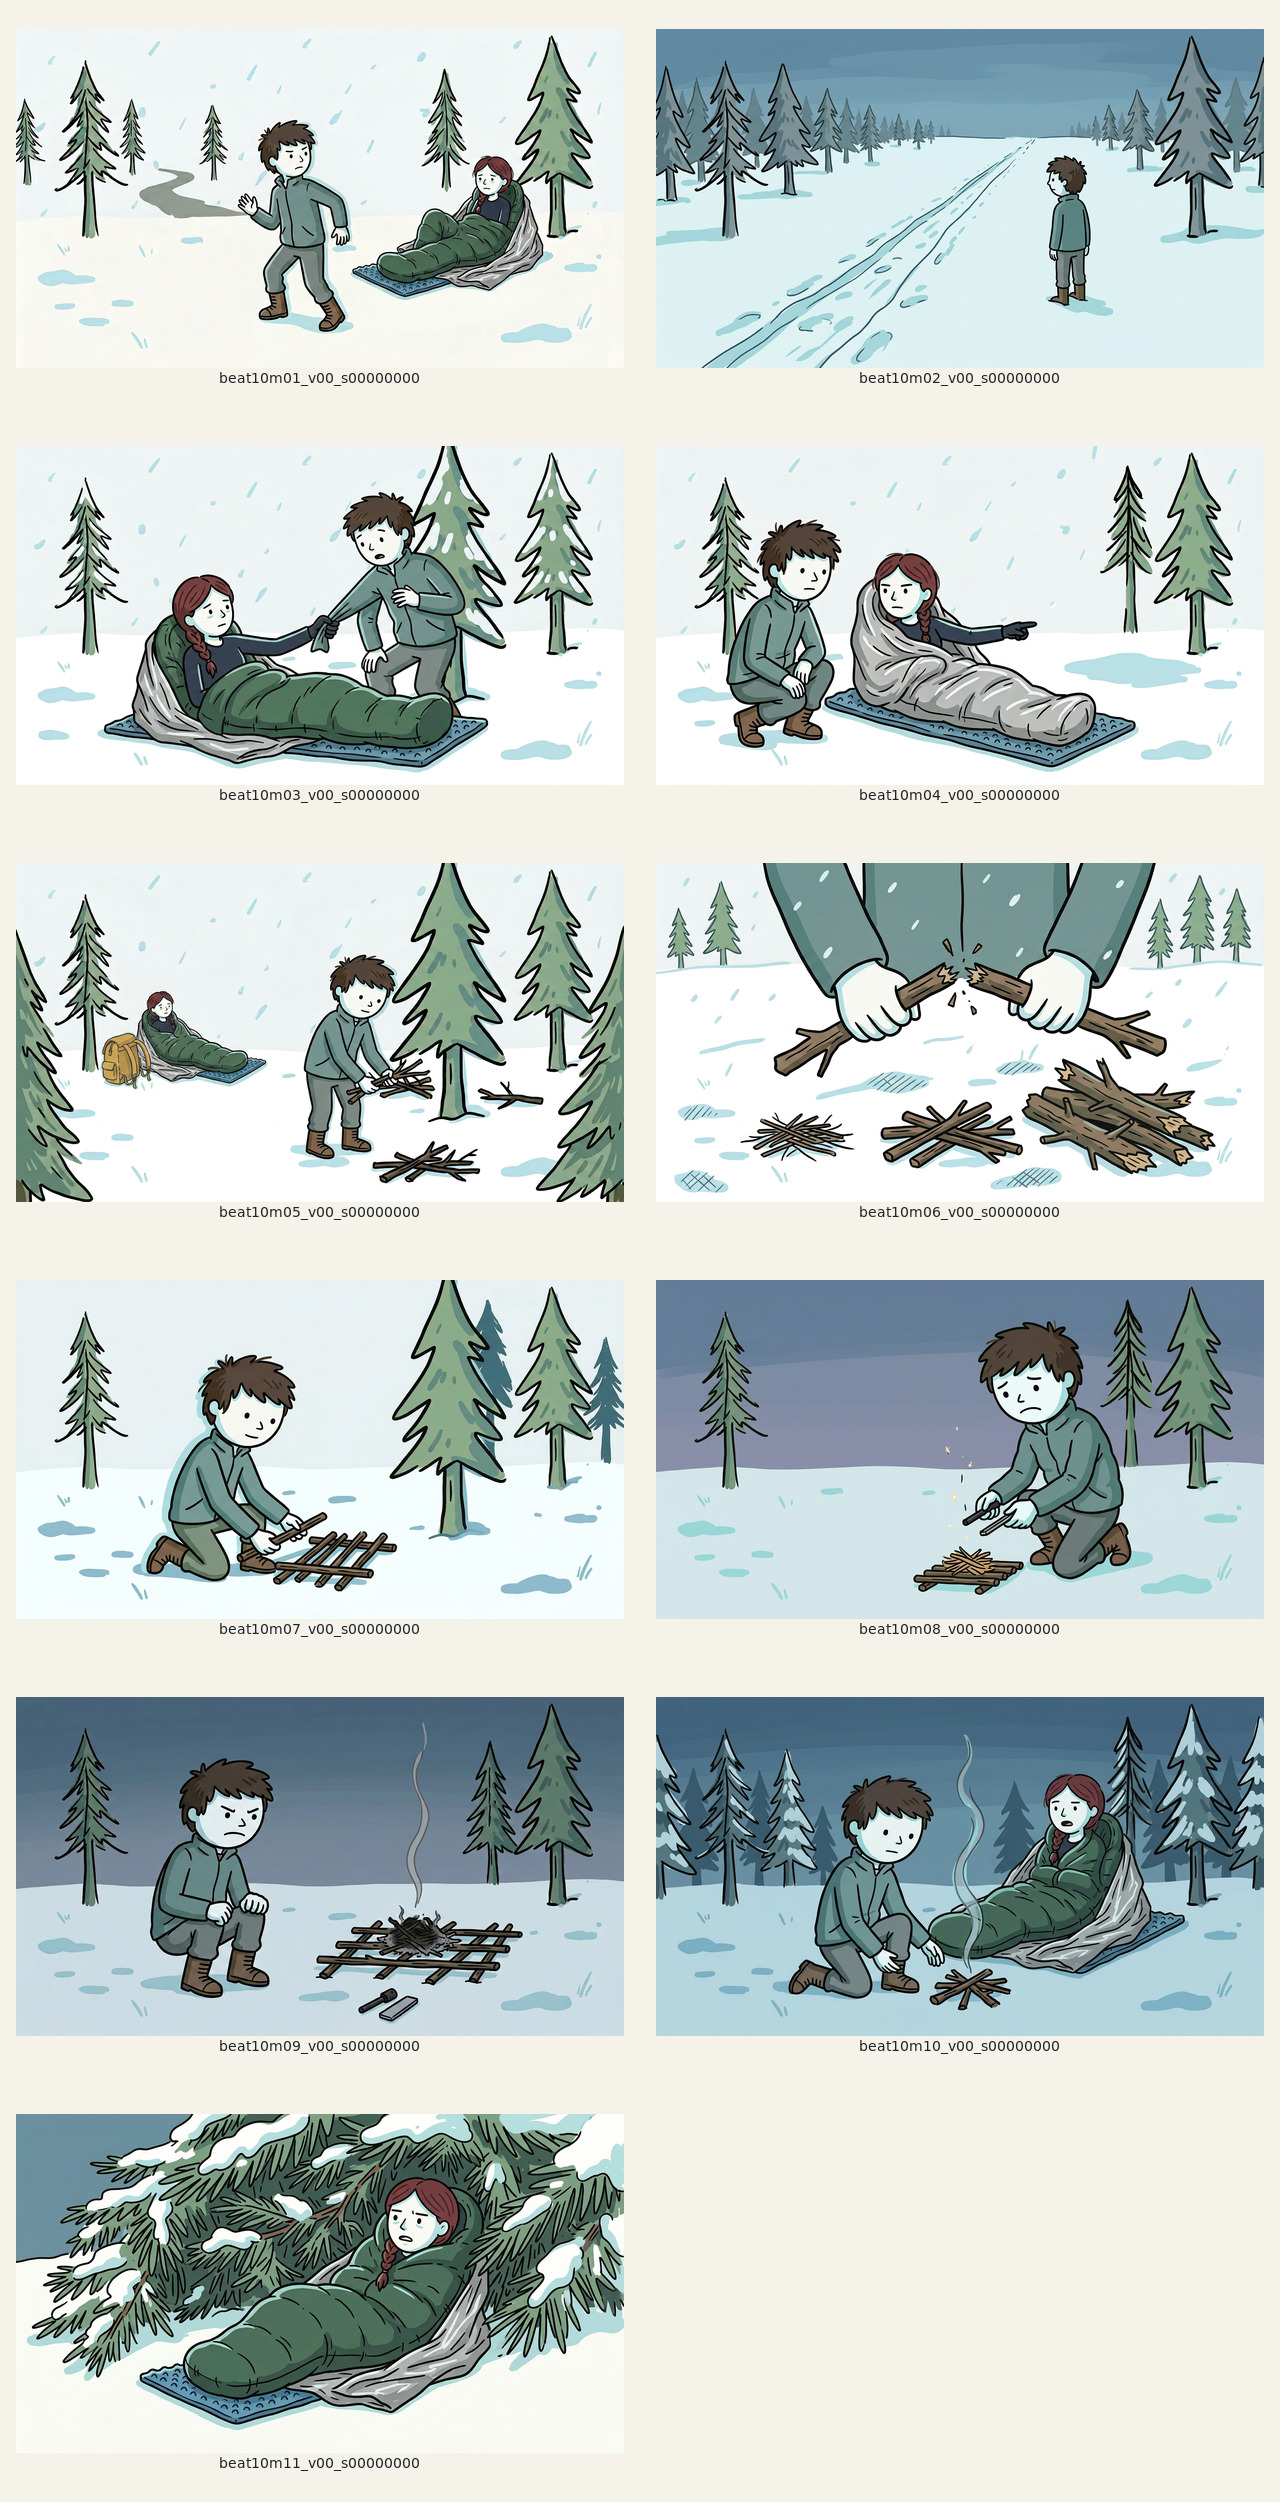
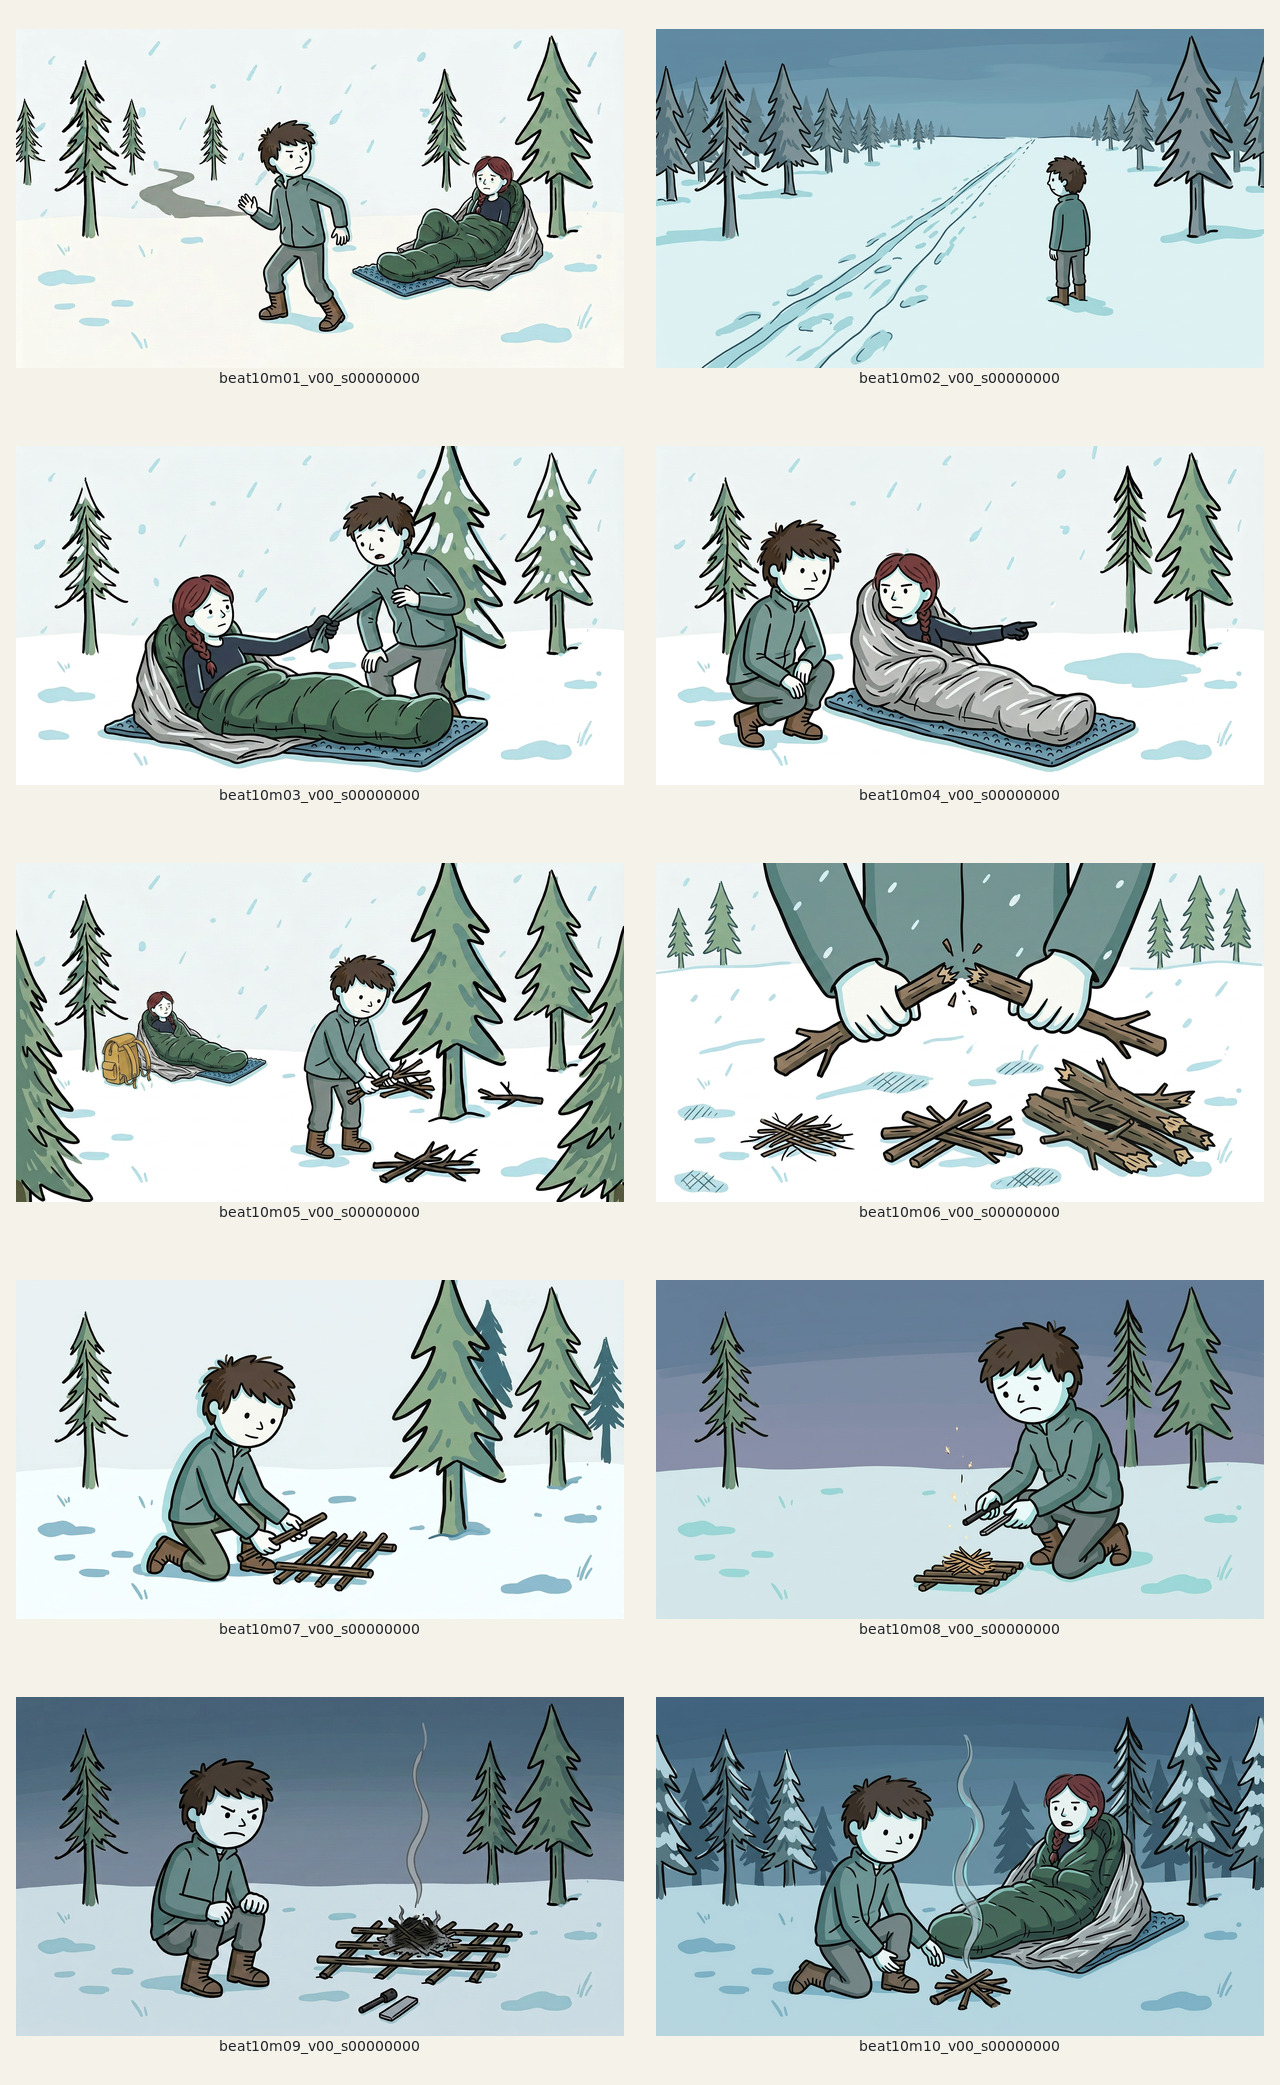
Start Save the Guide false reassurance frames

diff --git a/examples/save_the_guide_part_01_video/FRAME_REVIEW.md b/examples/save_the_guide_part_01_video/FRAME_REVIEW.md
@@ -1,49 +1,54 @@
 # Save the Guide — Part 1 Frame Review
 
-Frames are retained only after visual inspection. User approval is explicit through review/continue approval. Rejected candidates never count toward the 146 final frames, and corrected replacements await review.
+Frames are retained only after visual inspection. User approval is explicit through review/continue approval. Rejected candidates never count toward the 146 final frames, and user-flagged frames reopen even after prior approval.
 
 ## Approved frames
 
-- **Batches 1–10:** 108/108 approved.
-- **Batch 11 approved subset:** `m01` and `m03` = 2 frames. The user flagged `m08`, so it was not counted as approved.
+- **Batches 1–11:** 117 approved frames. This is 118 minus the reopened `beat10m11`; all Batch 11 frames are approved.
 
-**Total approved frames: 110/146.**
+**Total approved frames: 117/146.**
 
-## Batch 11 — reset and successful fire: COMPLETE 10/10
+## Reopened Batch 10 frame
 
-The complete section is shown in `review/part01_batch11_review.jpg`. These **eight frames await user review**:
+The user flagged `beat10m11` because Mara's sleeping-bag legs looked curled into separate sections. The first replacement achieved a straight silhouette but added a large wooden frame, so it was also rejected. The frame is currently **not retained**. Its next replacement must preserve the straight legs while showing only open snowy spruces—no logs, poles, tent or A-frame. `part01_batch10_review.jpg` has been refreshed without the rejected image.
 
-- `beat11m02` — confused fire components on a clear natural-stick platform over snow; the stone slab is gone.
-- `beat11m04` — Evan almost rises in muted teal; no A-frame, and Mara's covered hand was verified with a close crop.
-- `beat11m05` — Evan chooses to stay and looks at his pale hands; all upright structure is removed.
-- `beat11m06` — the correct orange-lidded tinder container and striker beside a natural-branch base with no sawn logs.
-- `beat11m07` — the rebuilt fire lay with exactly three waiting natural-branch size groups; the fourth pile was removed.
-- `beat11m08` — **user-flagged ambiguous base replaced.** Separate thin parallel sticks and white-snow gaps now make clear that there is no stone or solid slab beneath the tiny amber catch.
-- `beat11m09` — the fragile flame on a visible low stick platform over continuous snow, with no exposed dirt.
-- `beat11m10` — a real but controlled flame on the same type of natural-stick platform, with Mara safely distant; no stone or sawn-log base.
+## Batch 12 — “You did it” and mistaken reassurance: FIRST PASS
 
-All earlier A-frame, orange wardrobe, bare-hand, stone/dirt and sawn-log candidates were quarantined rather than retained.
+Five frames passed inspection and are shown in `review/part01_batch12_review.jpg`:
+
+- `beat12m02` — Mara's fragile “You did it” upper-body close-up with covered hands.
+- `beat12m04` — Evan adds one natural branch to the controlled fire on the low stick platform.
+- `beat12m06` — Mara quieter but awake; Evan misreads her stillness as reassurance. One dark-gloved hand remains visible after the deliberate check sequence.
+- `beat12m08` — Mara's motionless full body with both legs together and extended, right knee straight and no curled-knee sections.
+- `beat12m09` — almost peaceful face with one partly loosened braid and correct green/silver bedding.
+
+### Pending corrections
+
+- `beat12m01` — repeated the curled-knee sleeping-bag silhouette; replace it with straight, together legs.
+- `beat12m03` — Mara's background hand is bare; cover it without changing Evan's relieved laugh.
+- `beat12m05` — the hand-check composition omitted Mara's visible head/face; restore her face and one braid beside Evan while retaining exactly one dark-gloved checked hand.
+- `beat12m07` — a visible flame appeared against the sleeping bag; remove it and use only off-screen amber light.
+- `beat10m11` — the user-flagged frame described above also requires correction.
 
 ## Production counter
 
-- Approved frames: **110**
-- Batch 11 frames awaiting user review: **8**
-- **Total retained: 118/146**
-- **Final frames remaining: 28**
-- Pending Batch 11 corrections: **0**
+- Approved frames: **117**
+- Batch 12 first-pass frames awaiting user review: **5**
+- **Total retained: 122/146**
+- **Final frames remaining: 24**
+- Pending corrections: **5** (four Batch 12 frames plus reopened `beat10m11`)
 
-The next section is Batch 12, “You did it” and Evan's mistaken reassurance as Mara becomes still, with **9 planned moments**. If all pass, the count will be **127/146 retained**, leaving **19**.
+If all five corrections pass, Batch 12 will be complete at 9/9, Batch 10 will be restored to 11/11, and the count will be **127/146 retained**, leaving **19**.
 
 ## Standing continuity and QA rules
 
-- Evan's hands are pale and ungloved; his jacket, sleeves and cuffs remain muted teal, trousers grey. Orange belongs only to Mara's shell or its deliberate later signal use.
-- Mara has one auburn braid and dark gloves whenever a pre-shelter hand is visible. After wrapping, her hands stay under the bedding; an action may reveal exactly one dark-gloved hand while the other remains covered.
-- Full-body poses require coherent connected anatomy, exactly two legs and appropriate footwear; no floating hands, extra limbs or missing torso.
-- Mara remains on the single blue pad in the green sleeping bag with the silver bivy visibly outside after wrapping. No duplicate bedding or premature clothing-state changes.
-- The sleeping shelter is only open spruce cover plus pad/bag/bivy. No tent, lean-to, wooden A-frame, poles or handmade sleeping-shelter frame.
-- Use natural dead branches with irregular snapped ends, never sawn logs or milled lumber. Keep the mustard pack beside Mara unless the script deliberately moves it.
-- The fire base is only a small, low, flat platform of separate parallel natural sticks directly above continuous snow, with visible snow gaps. Never replace it with a stone slab, solid/ambiguous brown base, exposed-dirt patch, sawn-log raft or upright wooden frame. Use approved `beat10m07` as the continuity anchor.
-- Fire states must follow narration: failed components → no-flame reset → tinder/rebuild → tiny catch → fragile fed flame → small real flame. No roaring campfire.
+- Evan's hands are pale and ungloved; his jacket, sleeves and cuffs remain muted teal, trousers grey.
+- Mara has one auburn braid. After wrapping, her hands stay under the bedding; a deliberate action may reveal exactly one dark-gloved hand while the other remains covered.
+- In every full-body shelter frame, Mara's legs remain together and fully extended along the blue pad, right knee straight, with one continuous sleeping-bag silhouette. No raised knee, curled leg, bent two-section shape or separate leg lumps.
+- Use C04 for upper-body wrap identity only, never for leg pose. Use P04 plus explicit straight-leg composition for full-body shots.
+- Mara remains on the single blue pad in the green sleeping bag with the silver bivy visibly outside; her face remains visible unless the script deliberately changes coverage.
+- The sleeping shelter is only open spruce cover plus pad/bag/bivy. No tent, lean-to, wooden A-frame, poles, log surround or handmade sleeping-shelter frame.
+- Fire remains outside on a low flat platform of separate natural sticks over snow, never against the bedding. No stone slab, dirt base, sawn logs or roaring campfire.
 - No extra cup, first-aid book, phantom person or unrelated prop.
 - Every final frame must be native 1376×768, full-bleed, with no captions, border or polished-panel treatment.
 

diff --git a/examples/save_the_guide_part_01_video/STATUS.md b/examples/save_the_guide_part_01_video/STATUS.md
@@ -2,29 +2,27 @@
 
 ## Current stage
 
-**Batch 11 is complete at 10/10 retained frames. All eight replacements passed inspection. The user-flagged `m08` base is now unmistakably separate thin sticks with snow gaps, not an intentional stone. Eight Batch 11 frames await user review.**
+**Batch 11 is approved. The user-flagged `beat10m11` curled-knee frame is reopened and currently unretained; its first straight-leg replacement added a wooden frame and was also rejected. Batch 12's first pass retained five frames, with four Batch 12 corrections plus the reopened Mara-only frame pending.**
 
 ## Production counter
 
 | Counter | Frames |
 |---|---:|
 | Planned final narrative frames | **146** |
-| Approved Batches 1–10 | **108** |
-| Approved Batch 11 subset (`m01`, `m03`) | **2** |
-| **Total approved** | **110** |
-| Batch 11 frames awaiting user review | **8** |
-| **Total retained on disk** | **118** |
-| Batch 11 corrections pending | **0** |
-| **Final frames remaining** | **28** |
+| **Total approved (Batches 1–11 minus reopened `beat10m11`)** | **117** |
+| Batch 12 first-pass awaiting review | **5** |
+| **Total retained on disk** | **122** |
+| Pending corrections | **5** |
+| **Final frames remaining** | **24** |
 
 ## Completed
 
 - Research, series bible, full 14-paragraph/1,009-word Part 1 script, approved locked reference pack and validated 146-moment visual plan.
 - `beats.jsonl` — 14 narration beats derived from the plan.
-- **Batches 1–10:** 108 frames approved.
-- **Batch 11:** complete at **10/10 retained frames**; two approved and eight awaiting review.
-- `PROMPT_BIBLE.md` — prohibits stone slabs, exposed dirt, sawn-log bases and upright frames; approved `beat10m07` anchors the fire base.
-- All **118 retained frames** validated at native **1376×768**; narration text validates verbatim across all 146 moments.
+- **Batches 1–11:** 117 frames approved; `beat10m11` reopened for the user-flagged curled-knee silhouette.
+- **Batch 12:** `m02`, `m04`, `m06`, `m08`, and `m09` retained. Corrections pending for `m01`, `m03`, `m05`, and `m07`.
+- `PROMPT_BIBLE.md` — now requires straight, together legs in every full-body shelter frame and restricts C04 to upper-body identity.
+- All **122 retained frames** validated at native **1376×768**; narration text validates verbatim across all 146 moments.
 
 ## Runtime policy
 
@@ -32,9 +30,9 @@ There is **no fixed runtime cap**. Actual narration timing will determine the fi
 
 ## Next production steps
 
-1. Obtain user review of the complete Batch 11 sheet, especially replacement `m08`.
-2. Produce Batch 12, “You did it” and Evan's mistaken reassurance as Mara becomes still: **9 moments**.
-3. If all nine pass, the count will be **127/146 retained**, leaving **19**.
+1. Review the five retained Batch 12 frames.
+2. Correct `beat10m11` and Batch 12 `m01`, `m03`, `m05`, and `m07`, enforcing straight legs, visible Mara identity, covered/dark-gloved hands and no wooden structures or fire against bedding.
+3. If all five pass, Batch 12 will be complete at 9/9, Batch 10 restored to 11/11, and the count will be **127/146 retained**, leaving **19**.
 4. Continue in controlled batches of at most ten per generation round with inspection, user review and checkpoint pushes.
 5. Produce one-take `en-US-AndrewNeural` narration at `-5%`, require complete WordBoundary moment locking, and stitch native-resolution frames with hard cuts only.
 

diff --git a/references/save_the_guide/PROMPT_BIBLE.md b/references/save_the_guide/PROMPT_BIBLE.md
@@ -38,7 +38,7 @@ The primary visual anchor is `references/art_style_v1.png`.
 
 - **Training and crossing:** Dry base outfit; braid intact; orange shell worn normally.
 - **After immersion:** Same face and outfit, but soaked; hair partly loosened by water; violent shivering; no blood or graphic injury.
-- **Shelter:** Wet outer layers removed. She wears dry dark base layers and is wrapped in Evan's dark-green sleeping bag, with the blue foam pad beneath and silver bivy outside. Her right knee remains still and cannot bear weight. Keep her hands completely covered by the bedding; when an action requires a visible hand, show exactly one dark-gloved hand and keep the other covered. Use C04 for pose and bedding identity, not for a pale resting-hand state.
+- **Shelter:** Wet outer layers removed. She wears dry dark base layers and is wrapped in Evan's dark-green sleeping bag, with the blue foam pad beneath and silver bivy outside. Her right knee remains still and cannot bear weight. In every full-body shelter frame, both legs remain together and fully extended along the pad, with the right knee straight and one continuous sleeping-bag silhouette—never a raised knee, curled leg, or bent two-section pose. Use C04 for upper-body wrap and bedding identity only, never for leg pose; use P04 plus explicit straight-leg composition for full-body shots. Keep her hands completely covered by the bedding; when an action requires a visible hand, show exactly one dark-gloved hand and keep the other covered. Use C04 for upper-body pose and bedding identity, not for a pale resting-hand state.
 - **Part 2:** Same sheltered outfit and bedding. Her expression changes gradually with her condition; do not change her clothes to indicate improvement.
 - **Part 3 and rescue:** She remains injured and sheltered. She does not stand or walk. Her orange jacket is no longer being worn because Evan uses it as a signal marker.
 
